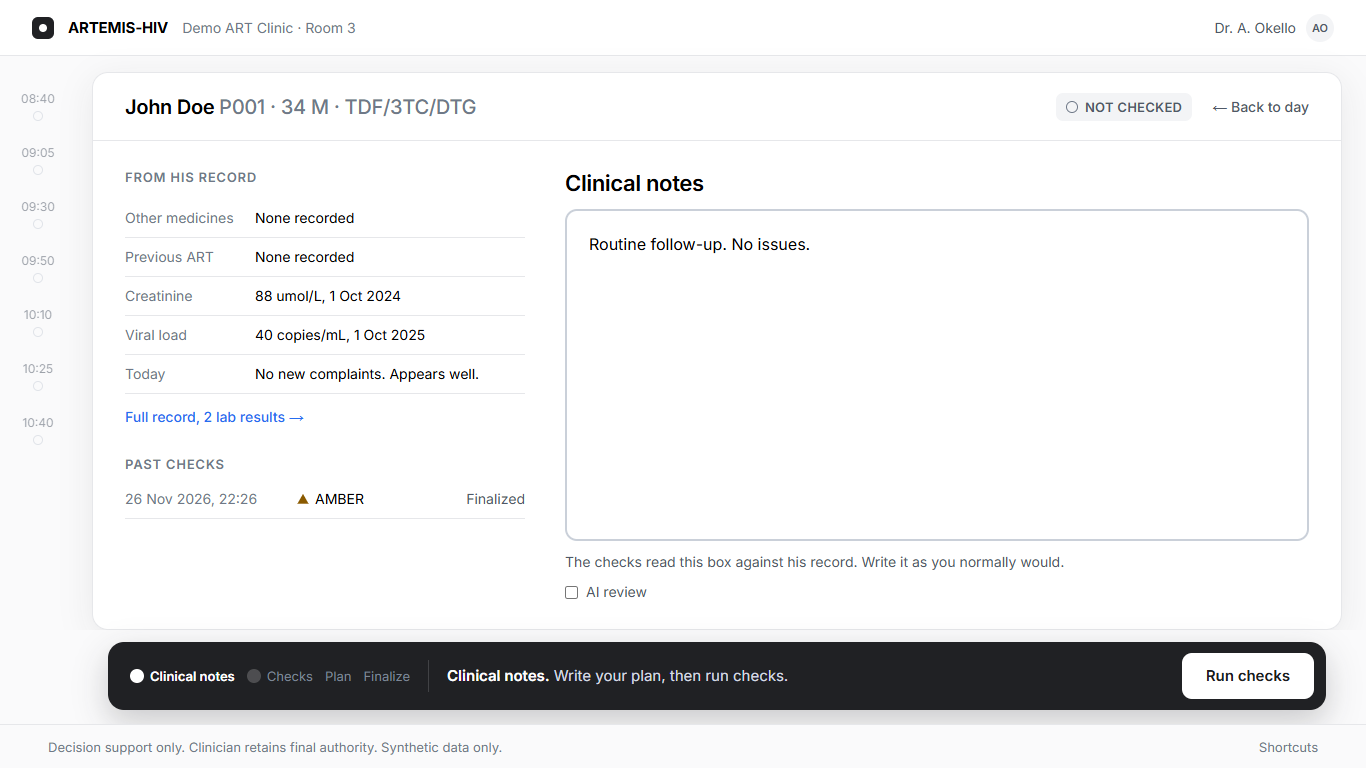
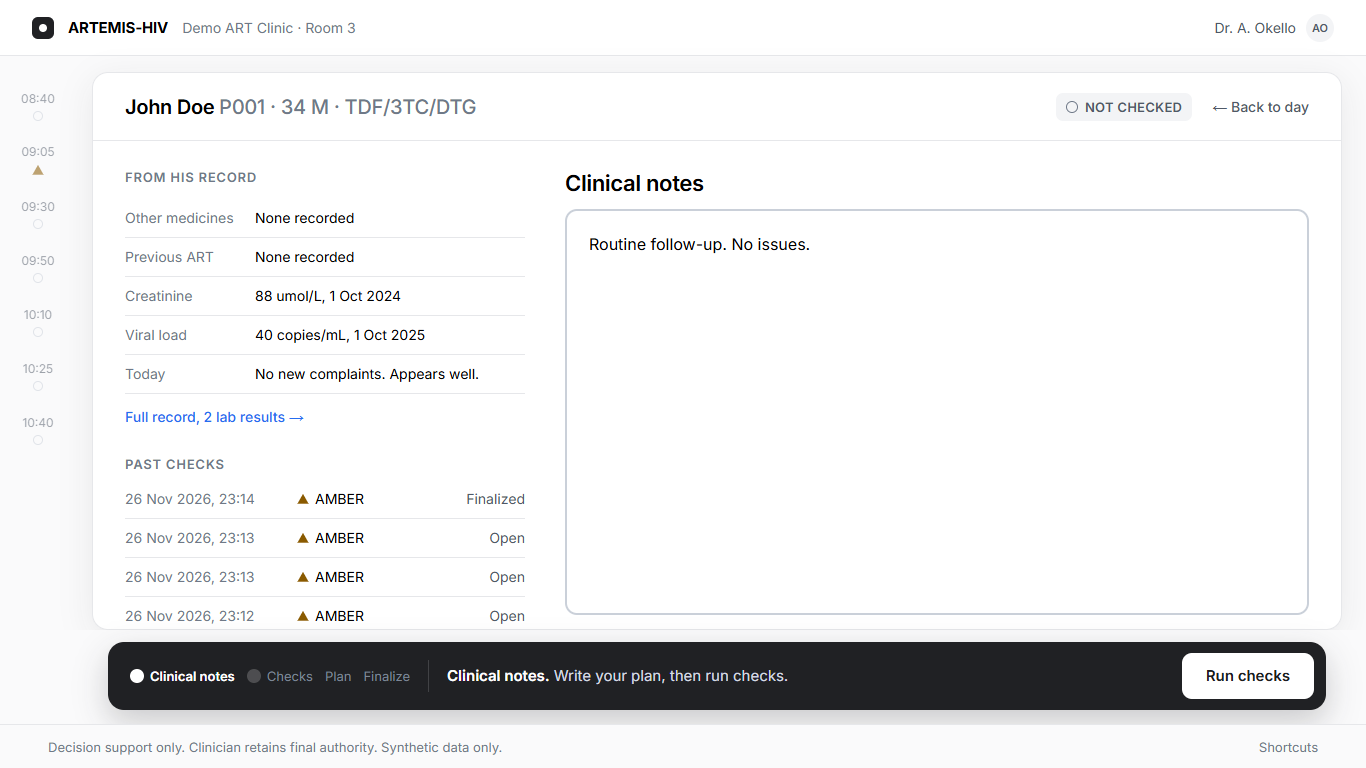
The visit screen stays put when its address starts naming the visit
After a check, the address names the saved visit (so Back or a reload
reopens it), but the screen is no longer rebuilt for a visit it just made:
a quick click right after the results appeared could land back on them.
The browser tests' stubs now catch only the check itself, not the new
past-checks request to the same address. Screenshots refreshed.

diff --git a/web/src/app/patients/[patientId]/visit-screen.tsx b/web/src/app/patients/[patientId]/visit-screen.tsx
@@ -30,6 +30,8 @@ export function VisitScreen({ params }: { params: Promise<{ patientId: string }>
   const { patientId } = use(params);
   // A saved visit to reopen (from the clinic day): shown as saved, with no new check (S1 -> S4).
   const visitId = useSearchParams().get("visit");
+  // A visit this screen just created: the address then names it, but the screen carries on as it is.
+  const [created, setCreated] = useState<string | null>(null);
   const patient = useQuery({
     queryKey: ["patient", patientId],
     queryFn: async () =>
@@ -42,7 +44,8 @@ export function VisitScreen({ params }: { params: Promise<{ patientId: string }>
   });
 
   if (patient.data && (!visitId || reopened.data)) {
-    return <Visit key={`${patient.data.patient_id}:${visitId ?? ""}`} patient={patient.data} reopened={reopened.data} />;
+    const opened = visitId && visitId !== created ? visitId : "";
+    return <Visit key={`${patient.data.patient_id}:${opened}`} patient={patient.data} reopened={opened ? reopened.data : undefined} onCreated={setCreated} />;
   }
   return (
     <Frame patientId={patientId} state="not_checked">
@@ -60,7 +63,7 @@ export function VisitScreen({ params }: { params: Promise<{ patientId: string }>
 type CheckRequest = { note: string; useAi: boolean };
 type CheckMutation = UseMutationResult<VisitCheck, Error, CheckRequest>;
 
-function Visit({ patient, reopened }: { patient: PatientDetail; reopened?: SavedVisit }) {
+function Visit({ patient, reopened, onCreated }: { patient: PatientDetail; reopened?: SavedVisit; onCreated: (visitId: string) => void }) {
   const [note, setNote] = useState(reopened?.note ?? String(patient.today_encounter.note ?? ""));
   const [useAi, setUseAi] = useState(false);
   const router = useRouter();
@@ -86,6 +89,7 @@ function Visit({ patient, reopened }: { patient: PatientDetail; reopened?: Saved
       queryClient.setQueryData(["visit", done.visit_id], asSaved);
       refreshDay(queryClient, patient.patient_id);
       // The address names the saved visit, so Back or a reload reopens it, never a blank form.
+      onCreated(done.visit_id);
       router.replace(visitHref(patient.patient_id, done.visit_id));
     },
   });

diff --git a/web/e2e/screens.spec.ts b/web/e2e/screens.spec.ts
@@ -59,6 +59,7 @@ const STATES: { outcome: AiProblem; patient: string; file: string }[] = [
 
 async function stubOutcome(page: Page, outcome: AiProblem) {
   await page.route("**/api/patients/*/visits", async (route) => {
+    if (route.request().method() !== "POST") return route.continue(); // only the check, not past checks
     const reply = await route.fetch();
     const body = (await reply.json()) as VisitCheck;
     const severities = JSON.stringify(body.cards.map((c) => c.extension.severity ?? null));
@@ -89,6 +90,7 @@ for (const { outcome, patient, file } of STATES) {
 // model is called; the screenshot shows the screen 6 seconds in.
 test("checks running, with the AI review", async ({ page }) => {
   await page.route("**/api/patients/*/visits", async (route) => {
+    if (route.request().method() !== "POST") return route.continue(); // only the check, not past checks
     await new Promise((r) => setTimeout(r, 9000));
     await route.abort();
   });

diff --git a/web/e2e/visit-check.spec.ts b/web/e2e/visit-check.spec.ts
@@ -39,6 +39,7 @@ test("a clinician runs the checks, reviews the alert on its own screen and decid
   // Hold the check for 1.5 s before it goes to the real backend, so the running screen is always
   // there to see, however fast the backend answers.
   await page.route("**/api/patients/*/visits", async (route) => {
+    if (route.request().method() !== "POST") return route.continue(); // only the check
     await new Promise((r) => setTimeout(r, 1500));
     await route.continue();
   });
